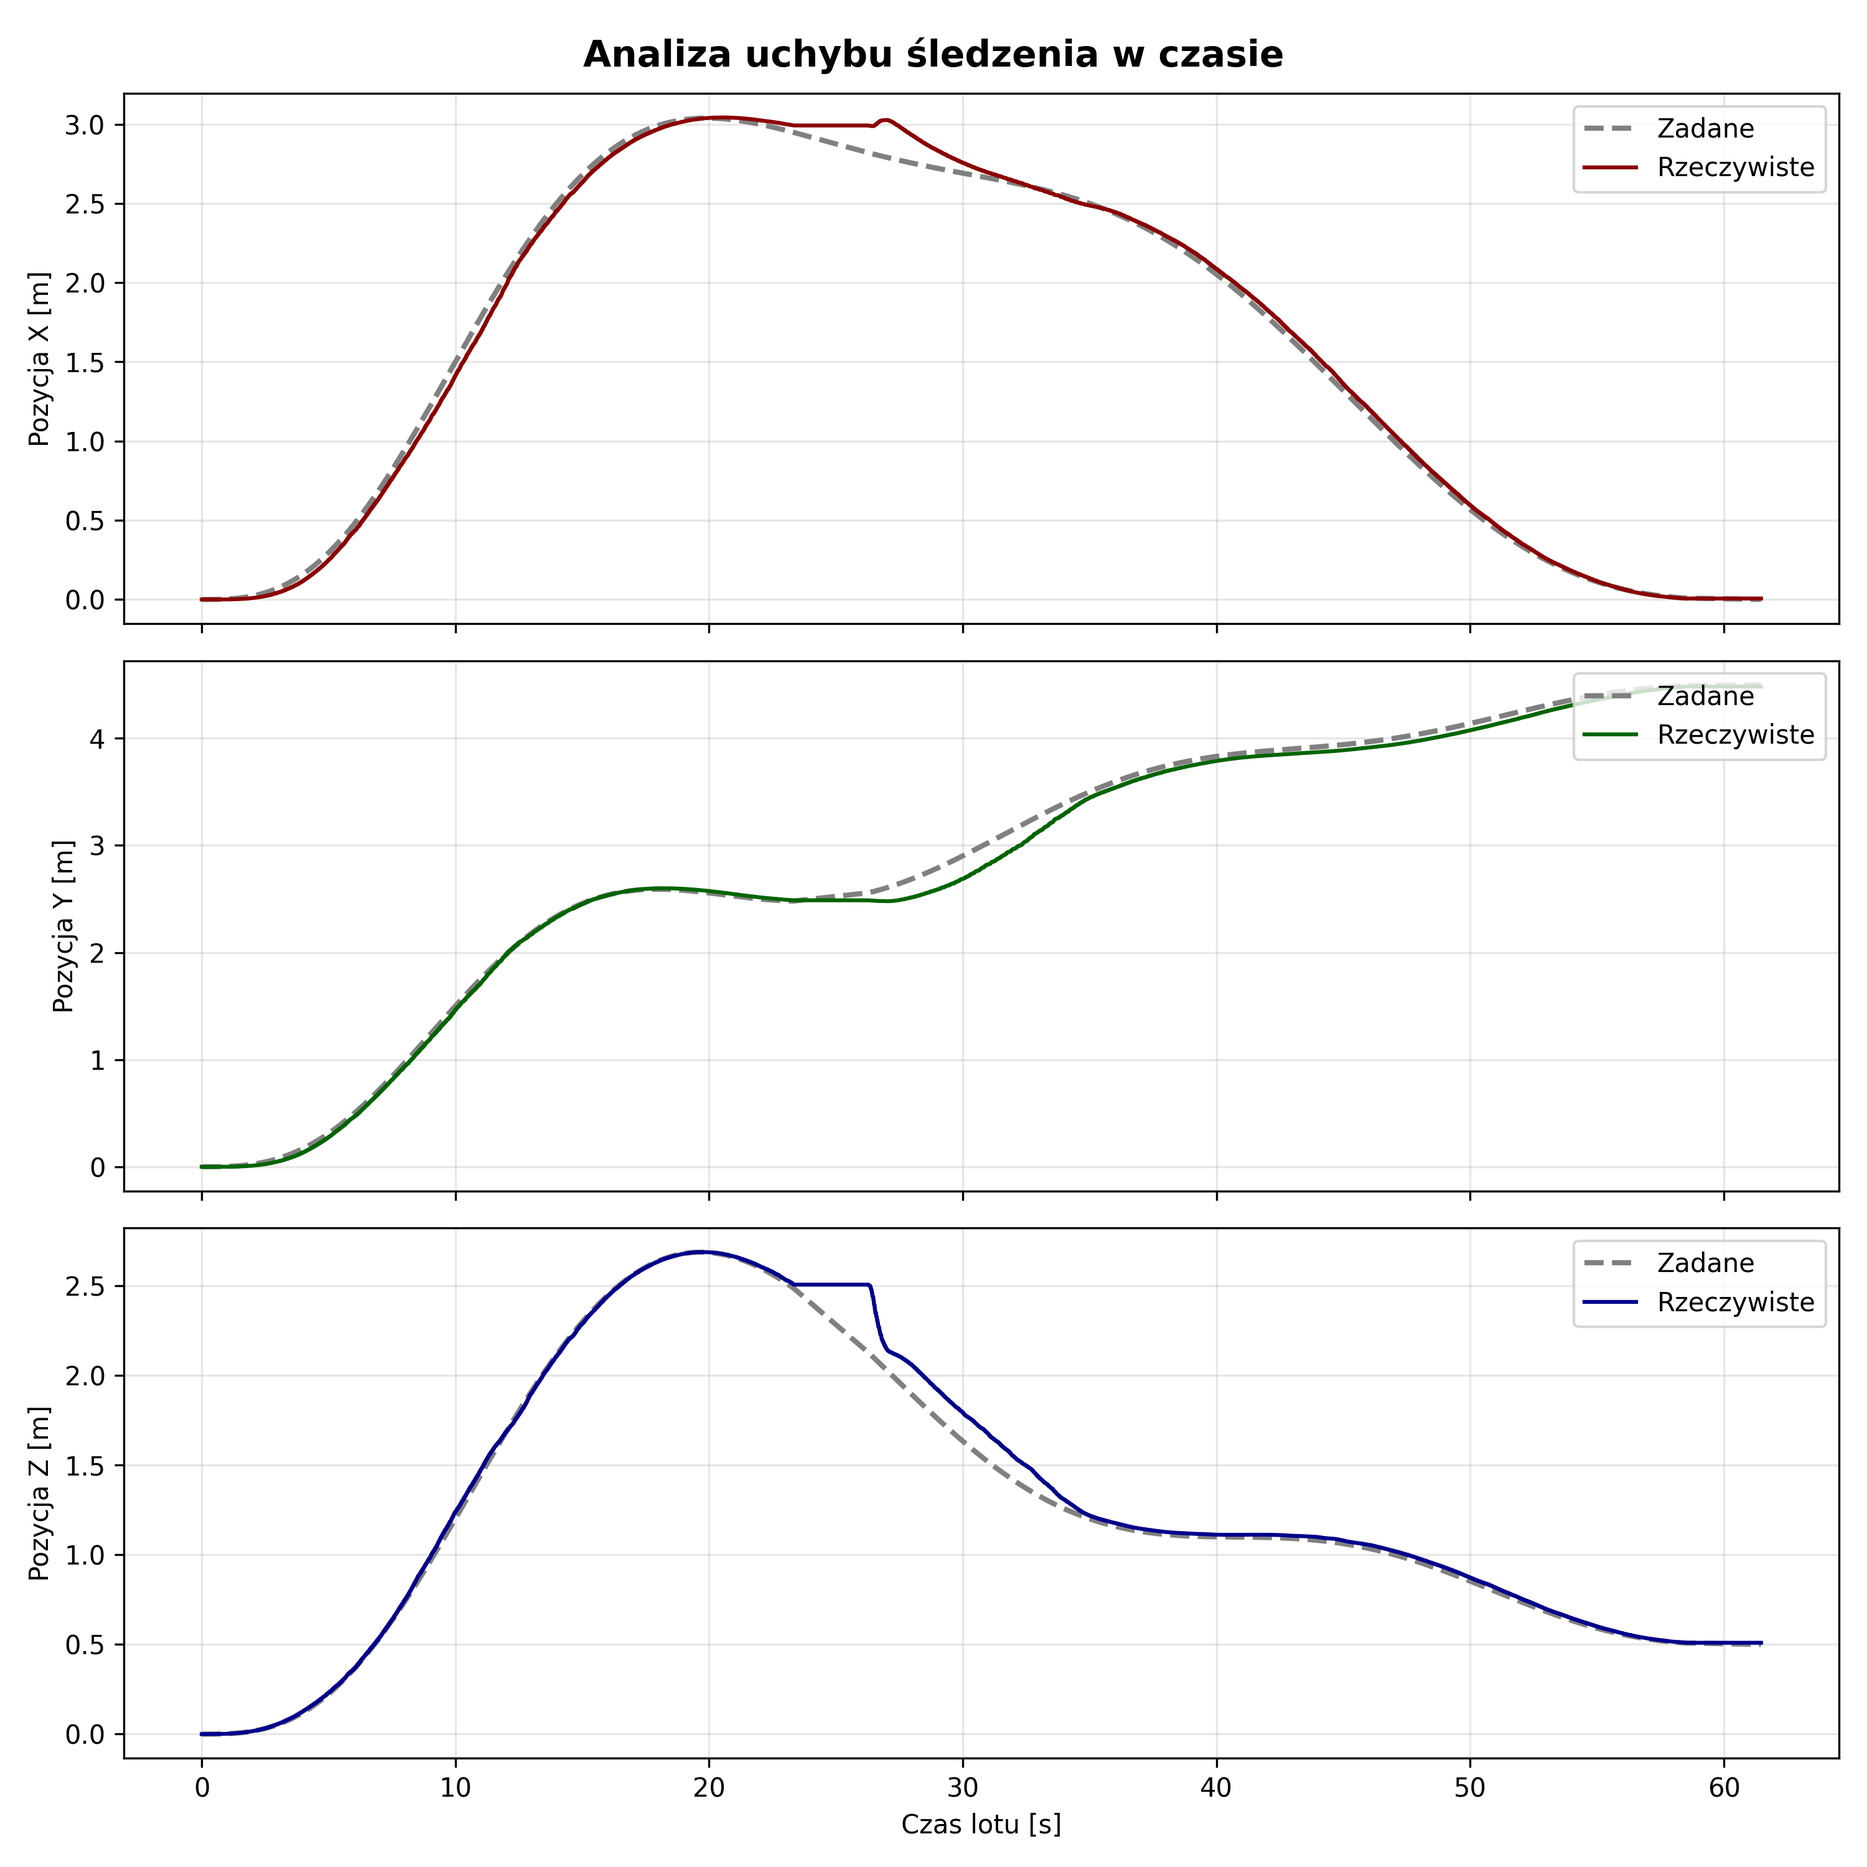
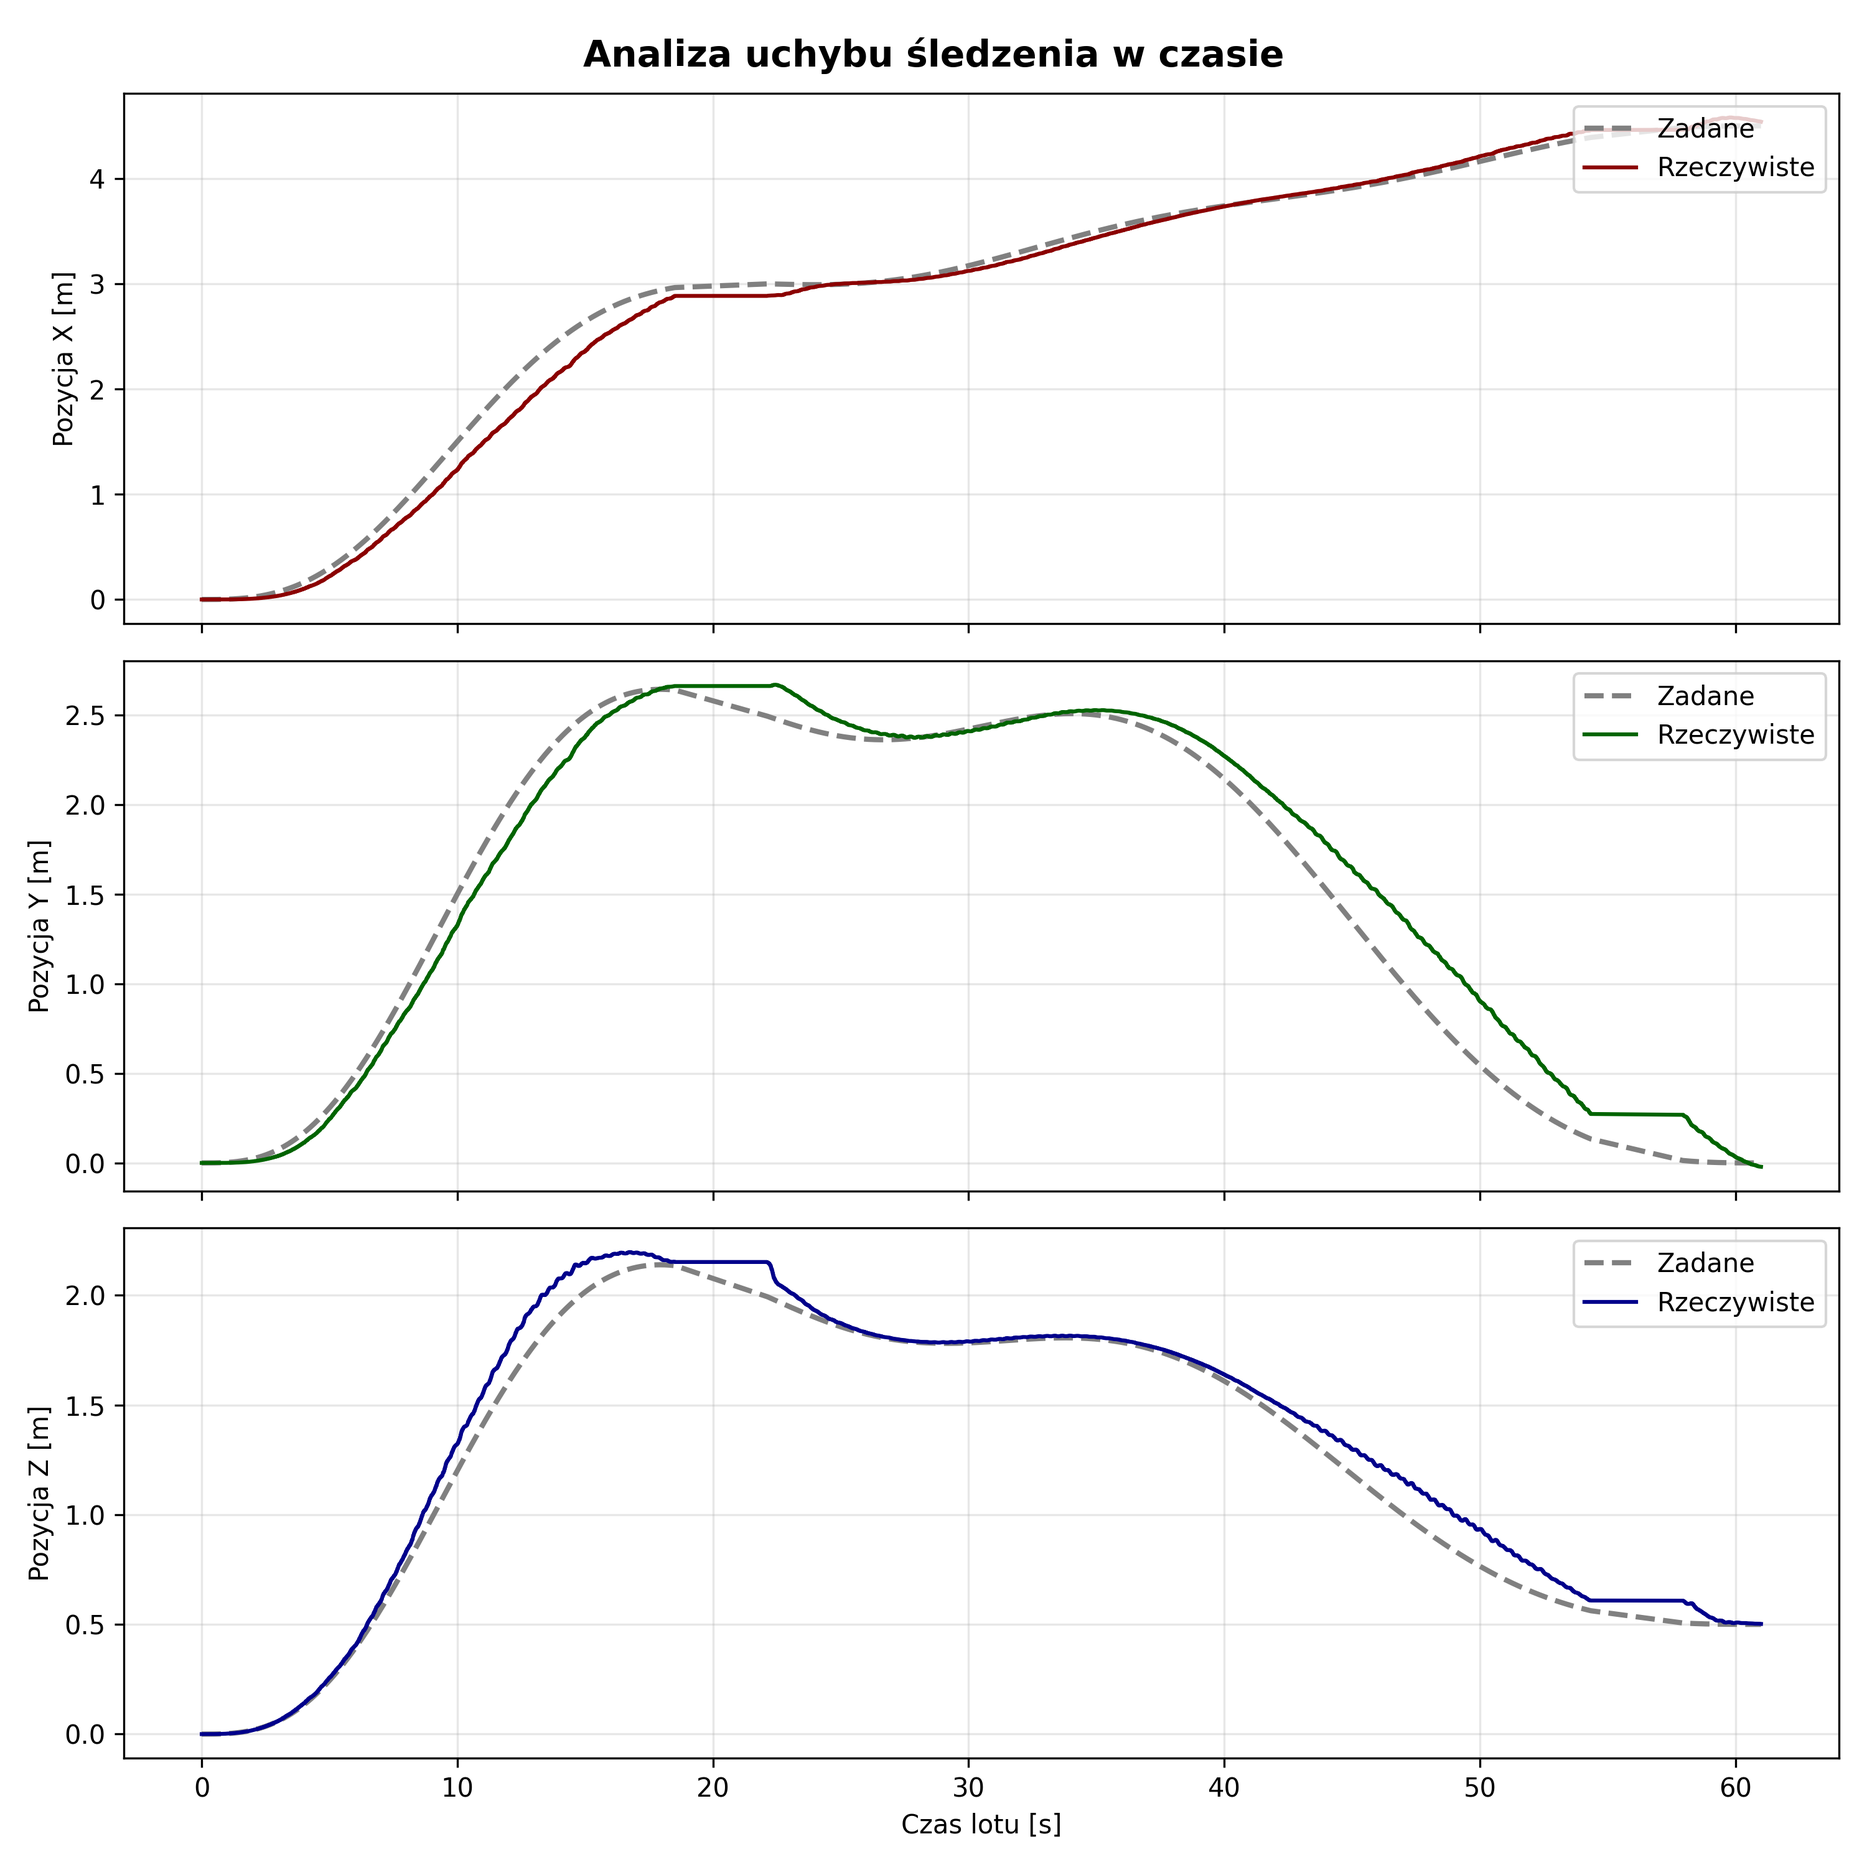
Working mpc

diff --git a/controller/controller/controller_node.py b/controller/controller/controller_node.py
@@ -147,16 +147,16 @@ class ControllerNode(Node):
         waypoints = np.array([
             start_pos,                          # Punkt 0: Start z ziemi/zawisu
             [1.5, 1.5, 1.2],       # Punkt 1: Płynne wzniesienie na 1.2 metra
-            [3.0, 2.5, 2.6],           # Punkt 2: Lot 1 metr w przód (oś X)
-            [2.5, 3.5, 1.2],                    # Punkt 3: Lot 1 metr w bok (oś Y)
-            [1.0, 4.0, 1.0],   # Punkt 4: Powrót nad punkt startowy
-            [0.0, 4.5, 0.5],   # Punkt 5: Lądowanie (pozycja niższa niż start)
+            [3.0, 2.5, 2.0],           # Punkt 2: Lot 1 metr w przód (oś X)
+            [3.5, 2.5, 1.8],                    # Punkt 3: Lot 1 metr w bok (oś Y)
+            [4.0, 1.0, 1.0],   # Punkt 4: Powrót nad punkt startowy
+            [4.5, 0.0, 0.5],   # Punkt 5: Lądowanie (pozycja niższa niż start)
         ])
 
         # --- CZASY DLA KAŻDEGO SEGMENTU (w sekundach) ---
         # Dajemy dronowi sporo czasu (3 sekundy na odcinek 1-metrowy), 
         # aby ruch był spokojny i łatwy do zaobserwowania w symulatorze.
-        segment_durations = [10, 12, 13, 12, 14]
+        segment_durations = [10, 12, 13, 12, 14] #13, 12, 14
 
         total_traj_time = sum(segment_durations)
         self.get_logger().info(f"Całkowity czas prostej trajektorii: {total_traj_time:.2f} sekund.")
@@ -187,107 +187,85 @@ class ControllerNode(Node):
         }
 
     def _control_loop(self):
-        # Log ratunkowy w przypadku braku odometrii
         if self.current_state is None:
-            now_ns = self.get_clock().now().nanoseconds
-            if now_ns - self._last_debug_log_ns >= 2_000_000_000:
-                self.get_logger().warn("⚠ Oczekiwanie na odometrię... Sprawdź poprawność topicu /crazyflie/odom")
-                self._last_debug_log_ns = now_ns
+            self.get_logger().warn("⚠ Oczekiwanie na odometrię...")
             return
 
         now_sec = self.get_clock().now().nanoseconds / 1e9
         flat_state = self._trajectory_server.update(now_sec)
         
         if flat_state is not None:
-            target_state = {
-                'pos': flat_state['pos'],
-                'vel': flat_state['vel'],
-                'acc': flat_state['acc'],
-                'quat': np.array([1.0, 0.0, 0.0, 0.0]),
-                'omega': np.array([0.0, 0.0, flat_state['yaw_rate']]),
-                'w_dot': np.array([0.0, 0.0, flat_state['yaw_acc']]),
-                'yaw': flat_state['yaw']
-            }
-            mode_string = "TRAJECTORY"
-
-            # NOWOŚĆ: Ciągle zapamiętujemy ostatni stan z aktywny trajektorii
-            self._last_valid_target_state = target_state.copy()
-
-            # Rejestrujemy dane do wykresu porównawczego
+            # --- Zbieranie danych do wykresów (TO JEST KLUCZOWE) ---
             self._time_history.append(now_sec)
-            self._pos_actual_history.append(self.current_state.position.copy())
-            self._pos_target_history.append(target_state['pos'].copy())
+            self._pos_actual_history.append(np.array(self.current_state.position))
+            self._pos_target_history.append(np.array(flat_state['pos']))
 
-        else:
-            # NOWOŚĆ: Jeśli mamy zapisany ostatni stan trajektorii, wykonujemy
-            # krótki manewr final-approach: obliczamy żądaną prędkość i przyspieszenie
-            # tak, aby po upływie krótkiego czasu `tf` osiągnąć punkt końcowy.
-            if self._last_valid_target_state is not None:
-                # Parametr czasu podejścia - jak szybko spróbujemy dotrzeć do punktu
-                tf = 1.5  # [s] - krótki final approach
-
-                pos_target = np.asarray(self._last_valid_target_state['pos'], dtype=float)
-                pos_curr = np.asarray(self.current_state.position, dtype=float)
-                vel_curr = np.asarray(self.current_state.linear_velocity, dtype=float)
-
-                # Żądana prędkość do osiągnięcia punktu w czasie tf
-                vel_des = (pos_target - pos_curr) / tf
-                max_vel = 2.0
-                vnorm = float(np.linalg.norm(vel_des))
-                if vnorm > max_vel and vnorm > 1e-6:
-                    vel_des *= (max_vel / vnorm)
-
-                # Feedforward przyspieszenie potrzebne do osiągnięcia punktu w czasie tf
-                acc_des = 2.0 * (pos_target - pos_curr - vel_curr * tf) / (tf**2)
-                max_acc = 5.0
-                anorm = float(np.linalg.norm(acc_des))
-                if anorm > max_acc and anorm > 1e-6:
-                    acc_des *= (max_acc / anorm)
-
-                target_state = {
-                    'pos': pos_target,        # Trzymaj ostatnią pozycję X, Y, Z
-                    'vel': vel_des,           # Zaimplementowana żądana prędkość podejścia
-                    'acc': acc_des,           # Feedforward przyspieszenie końcowe
-                    'quat': np.array([1.0, 0.0, 0.0, 0.0]),
-                    'omega': np.zeros(3),     # Zeruj prędkości kątowe
-                    'w_dot': np.zeros(3),
-                    'yaw': self._last_valid_target_state['yaw']
-                }
-                mode_string = "FINAL_APPROACH"
-            else:
-                # Wypadek awaryjny (jeśli trajektoria w ogóle nie wystartowała)
-                target_state = self._get_default_hover_state()
-                mode_string = "HOVER_DEFAULT"
+            # --- MPC ---
+            acc_command = self._mpc.solve(
+                pos0=self.current_state.position,
+                vel0=self.current_state.linear_velocity,
+                pos_target=flat_state['pos'],
+                vel_target=flat_state['vel'],
+                acc_ff=flat_state['acc']
+            )
             
-            # Jeśli trajektoria właśnie się skończyła, a my zebraliśmy dane -> Generujemy raport
-            if len(self._pos_target_history) > 0 and not self._plots_generated:
-                self._plots_generated = True
-                self._generate_ground_truth_plots()
+            target_state = self._create_target_from_flat(flat_state)
+            # WAŻNE: Dodajemy grawitację tutaj, aby Mellinger dostał pełne przyspieszenie
+            target_state['acc'] = acc_command
+            
+            mode_string = "MPC_TRAJECTORY"
+        else:
+            # Trajektoria skończona - generowanie wykresów
+            target_state = self._handle_trajectory_end()
+            mode_string = "HOVER_OR_LAND"
 
-        
-
-        # Obliczenie komend sterujących Mellingera
+        # Obliczenie sterowania
         thrust, torque = self._controller.compute_control(self.current_state, target_state)
 
-        # Log diagnostyczny (1 Hz)
-        now_ns = self.get_clock().now().nanoseconds
-        if now_ns - self._last_debug_log_ns >= 1_000_000_000:
-            self.get_logger().info(
-                f'[{mode_string}] pos=[{self.current_state.position[0]:.2f}, {self.current_state.position[1]:.2f}, {self.current_state.position[2]:.2f}] '
-                f'target=[{target_state["pos"][0]:.2f}, {target_state["pos"][1]:.2f}, {target_state["pos"][2]:.2f}] thrust={thrust:.4f}'
-            )
-            self._last_debug_log_ns = now_ns
+        # Publikacja
+        self._publish_control(thrust, torque, mode_string, target_state)
 
+    def _create_target_from_flat(self, fs):
+        return {
+            'pos': fs['pos'], 'vel': fs['vel'], 'acc': fs['acc'],
+            'quat': np.array([1.0, 0.0, 0.0, 0.0]),
+            'omega': np.array([0.0, 0.0, fs['yaw_rate']]),
+            'w_dot': np.array([0.0, 0.0, fs['yaw_acc']]),
+            'yaw': fs['yaw']
+        }
+
+    def _handle_trajectory_end(self):
+        # Generowanie wykresów
+        if not self._plots_generated and len(self._pos_target_history) > 0:
+            self._plots_generated = True
+            self._generate_ground_truth_plots()
+        
+        # Zamiast [0,0,1], weź ostatnią pozycję z historii
+        last_pos = self._pos_target_history[-1]
+        return {
+            'pos': last_pos,
+            'vel': np.zeros(3),
+            'acc': np.array([0, 0, 9.81]), # Grawitacja, żeby wisiał
+            'quat': np.array([1.0, 0.0, 0.0, 0.0]),
+            'omega': np.zeros(3),
+            'w_dot': np.zeros(3),
+            'yaw': 0.0 # Możesz zapisać ostatni yaw z trajektorii
+        }
+
+    def _publish_control(self, thrust, torque, mode, target):
+        now_ns = self.get_clock().now().nanoseconds
+        
         # Publikacja
         msg = ThrustAndTorque()
         msg.timestamp = now_ns
-        msg.collective_thrust = thrust  # Ograniczenie do rozsądnego zakresu
-        msg.torque = Vector3(
-            x=float(torque[0]),
-            y=float(torque[1]),
-            z=float(torque[2]),
-        )
+        msg.collective_thrust = float(thrust)
+        msg.torque = Vector3(x=float(torque[0]), y=float(torque[1]), z=float(torque[2]))
         self.command_publisher.publish(msg)
+
+        # Logowanie (throttle)
+        if now_ns - self._last_debug_log_ns >= 1_000_000_000:
+            self.get_logger().info(f'[{mode}] pos={self.current_state.position}, target={target["pos"]}')
+            self._last_debug_log_ns = now_ns
 
     def _generate_ground_truth_plots(self):
         """Generuje pliki PNG z porównaniem trajektorii i zapisuje je w folderze pakietu."""

diff --git a/controller/controller/mpc_controller.py b/controller/controller/mpc_controller.py
@@ -1,69 +1,52 @@
 import numpy as np
 from scipy.optimize import minimize
 
-
 class MPCPositionController:
-    """Simple receding-horizon MPC that outputs desired acceleration.
-
-    Solves a small QP over accelerations to drive position to a target while
-    respecting acceleration bounds. Uses scipy.optimize.SLSQP (no external QP solver).
-    """
-
-    def __init__(self, dt: float = 0.1, horizon: int = 10, a_max: float = 5.0, q_pos: float = 10.0, r_acc: float = 0.1):
+    def __init__(self, dt=0.01, horizon=8, a_max=0.01, q_pos=3e-8, q_vel=3e-3, r_acc=2):
         self.dt = float(dt)
         self.N = int(horizon)
         self.a_max = float(a_max)
         self.q_pos = float(q_pos)
+        self.q_vel = float(q_vel)
         self.r_acc = float(r_acc)
+        self.last_solution = None # Dla warm startu
 
-    def solve(self, pos0: np.ndarray, vel0: np.ndarray, pos_target: np.ndarray, vel_target: np.ndarray = None, acc_ff: np.ndarray = None):
-        """Solve MPC and return first-step acceleration command.
-
-        pos0, vel0, pos_target are 3-element arrays. vel_target and acc_ff are optional.
-        """
+    def solve(self, pos0, vel0, pos_target, vel_target=None, acc_ff=None):
         pos0 = np.asarray(pos0, dtype=float)
         vel0 = np.asarray(vel0, dtype=float)
         pos_target = np.asarray(pos_target, dtype=float)
-        if vel_target is None:
-            vel_target = np.zeros(3)
-        if acc_ff is None:
-            acc_ff = np.zeros(3)
+        vel_target = np.zeros(3) if vel_target is None else np.asarray(vel_target, dtype=float)
+        acc_ff = np.zeros(3) if acc_ff is None else np.asarray(acc_ff, dtype=float)
 
-        N = self.N
-        dt = self.dt
-
-        # decision variable: stacked accelerations [a0x,a0y,a0z, a1x,...]
-        x0 = np.tile(acc_ff, N)
+        # Warm start
+        if self.last_solution is not None:
+            x0 = np.concatenate([self.last_solution[3:], self.last_solution[-3:]])
+        else:
+            x0 = np.tile(acc_ff, self.N)
 
         Q = self.q_pos * np.eye(3)
+        Qv = self.q_vel * np.eye(3)
         R = self.r_acc * np.eye(3)
 
         def rollout(accs_flat):
-            accs = accs_flat.reshape((N, 3))
-            pos = pos0.copy()
-            vel = vel0.copy()
-            cost = 0.0
-            for k in range(N):
+            accs = accs_flat.reshape((self.N, 3))
+            p, v, cost = pos0.copy(), vel0.copy(), 0.0
+            for k in range(self.N):
                 a = accs[k]
-                # dynamics
-                pos = pos + vel * dt + 0.5 * a * dt * dt
-                vel = vel + a * dt
-                # stage cost: pos error to final target + control effort around feedforward
-                e = pos - pos_target
+                p = p + v * self.dt + 0.5 * a * self.dt**2
+                v = v + a * self.dt
+                
+                ep = p - pos_target
+                ev = v - vel_target
                 da = a - acc_ff
-                cost += e @ (Q @ e) + da @ (R @ da)
+                cost += ep @ (Q @ ep) + ev @ (Qv @ ev) + da @ (R @ da)
             return cost
 
-        # bounds for accelerations per axis
-        bounds = [(-self.a_max, self.a_max)] * (3 * N)
+        bounds = [(-self.a_max, self.a_max)] * (3 * self.N)
+        res = minimize(rollout, x0, method='SLSQP', bounds=bounds, options={'maxiter': 500, 'ftol': 1e-4})
 
-        res = minimize(rollout, x0, method='SLSQP', bounds=bounds, options={'maxiter': 200, 'ftol': 1e-3})
-
-        if not res.success:
-            # fallback: simple PD-like acceleration
-            a_fb = -2.0 * (pos0 - pos_target) - 1.0 * (vel0 - vel_target)
-            a_fb = np.clip(a_fb, -self.a_max, self.a_max)
-            return a_fb
-
-        a_seq = res.x.reshape((N, 3))
-        return a_seq[0]
+        if res.success:
+            self.last_solution = res.x
+            return res.x[0:3]
+        else:
+            return -2.0 * (pos0 - pos_target) - 1.0 * (vel0 - vel_target)
